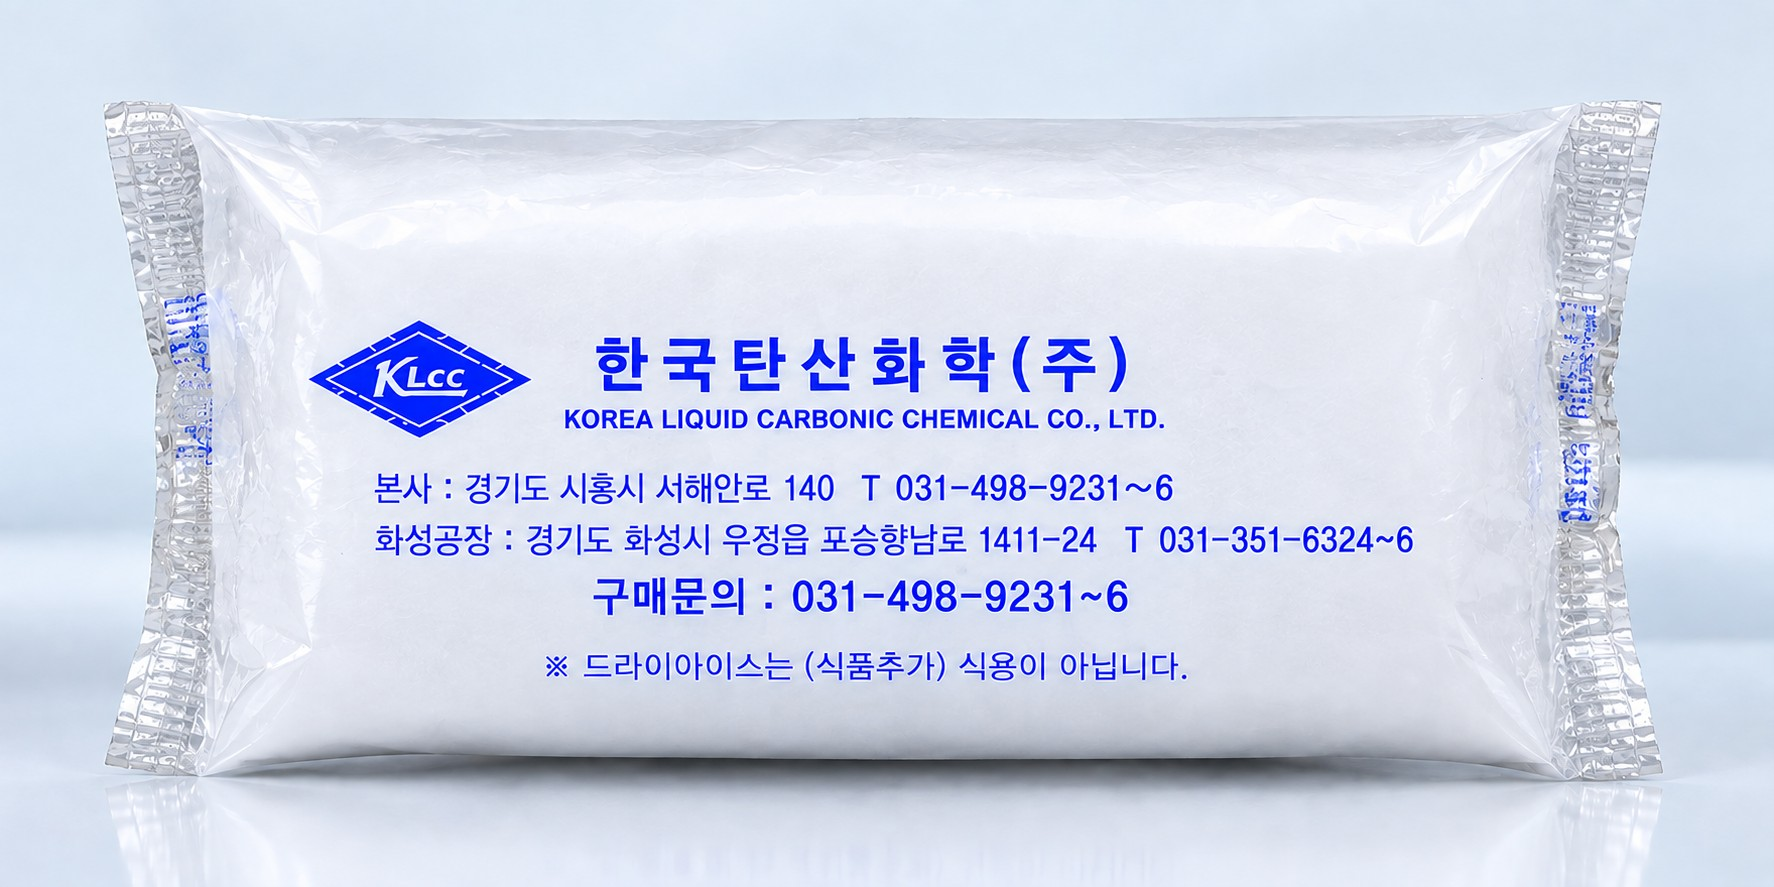
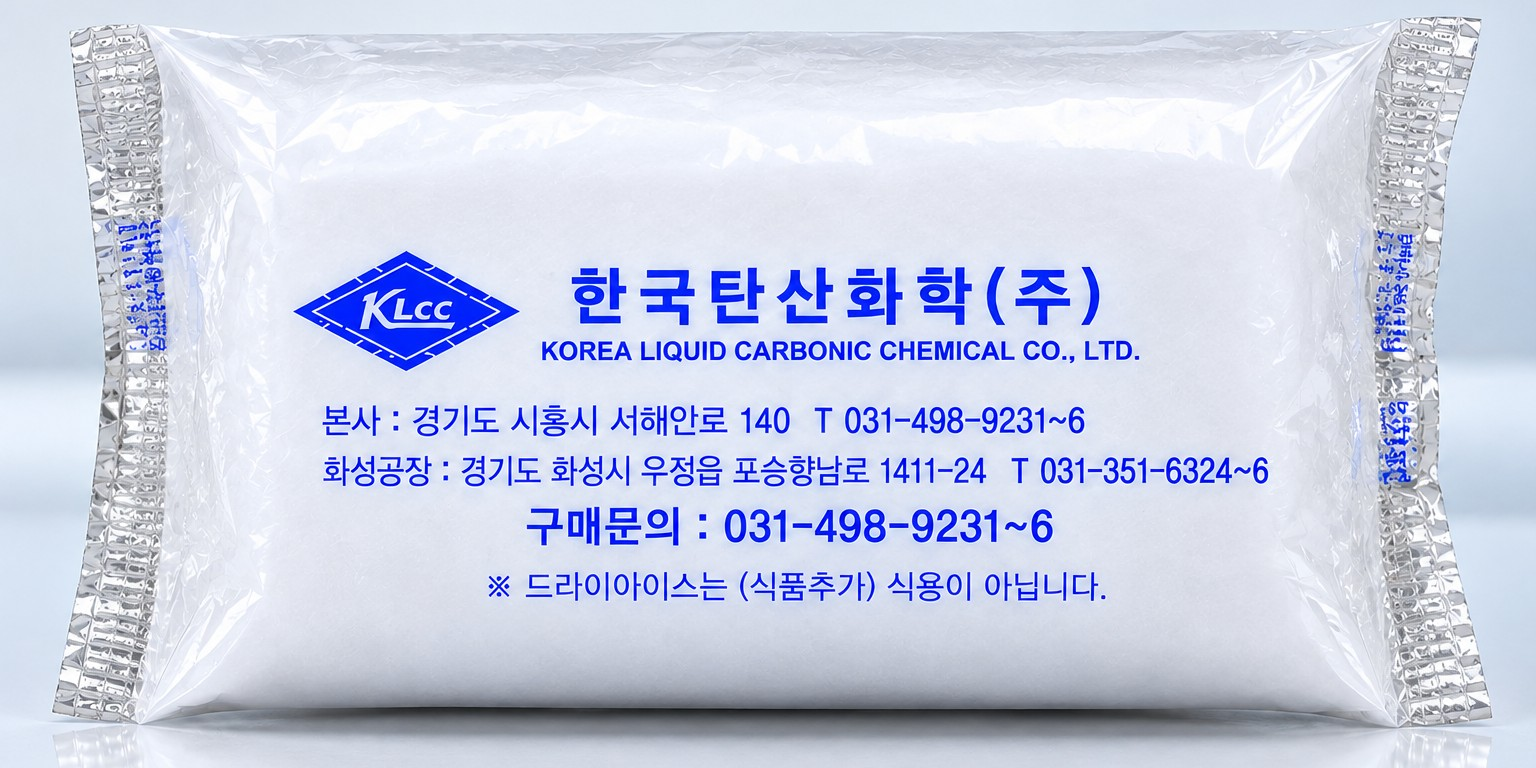
드라이아이스 규격 섹션: 너겟 실사 사진·개별 너겟 규격 도면(125×78×45)을 새 이미지로 교체. ice-nugget-pack·dim-nugget ?v=20260911

diff --git a/products-ice.html b/products-ice.html
@@ -287,10 +287,10 @@
                 <h3 class="specpanel__title">너겟 <em>(NUGGET)</em></h3>
                 <p class="specpanel__desc">소형 직사각형 형태로 성형되어 취급과 소분이 편리한 드라이아이스입니다.</p>
                 <div class="icespec-figs">
-                  <div class="icespec-figs__photo"><img src="assets/images/site/ice-nugget-pack.jpg?v=20260910c" alt="한국탄산화학㈜ 너겟 드라이아이스 포장 제품" loading="lazy"></div>
+                  <div class="icespec-figs__photo"><img src="assets/images/site/ice-nugget-pack.jpg?v=20260911" alt="한국탄산화학㈜ 너겟 드라이아이스 포장 제품" loading="lazy"></div>
                   <figure class="icespec-figs__dim icespec-figs__dim--titled">
                     <figcaption class="icespec-figs__dimtitle">개별 너겟 규격</figcaption>
-                    <img src="assets/images/site/icespec/dim-nugget.png?v=20260910" alt="개별 너겟 규격 125×78×45mm" loading="lazy">
+                    <img src="assets/images/site/icespec/dim-nugget.png?v=20260911" alt="개별 너겟 규격 125×78×45mm" loading="lazy">
                     <span class="icespec-figs__dimnote">※ 성형 특성상 약간의 오차가 있을 수 있습니다.</span>
                   </figure>
                 </div>
